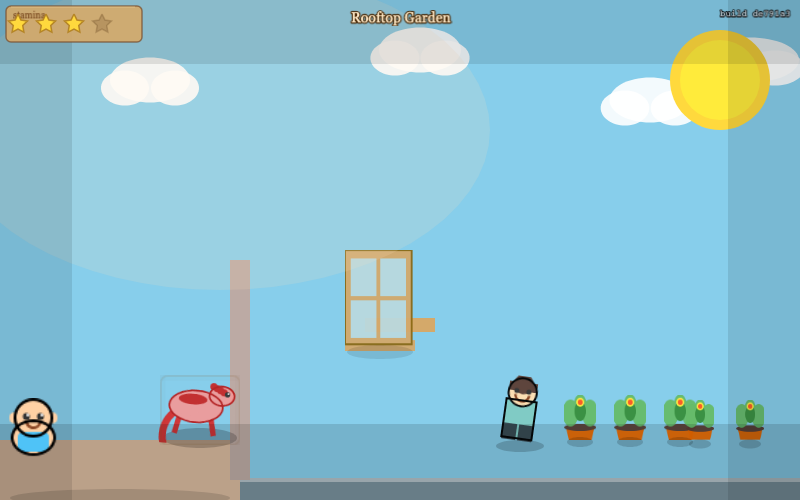
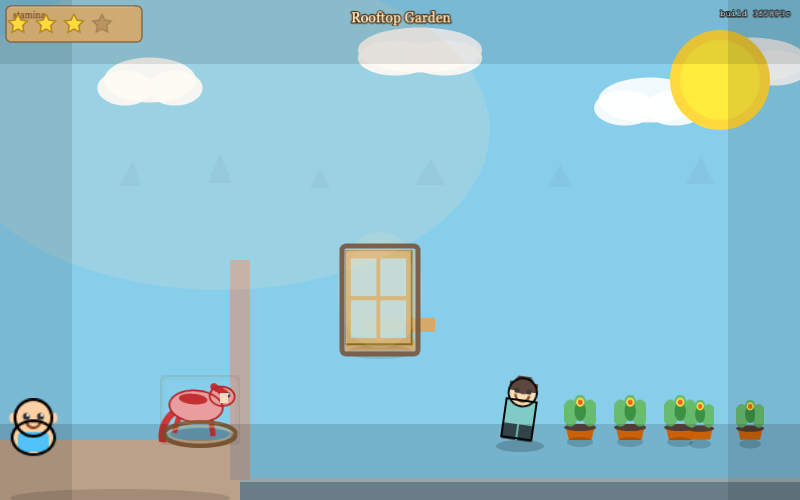
feat: crafted diorama pass for scenes 2-5

diff --git a/src/scenes/RooftopScene.js b/src/scenes/RooftopScene.js
@@ -27,6 +27,15 @@ export class RooftopScene extends Phaser.Scene {
     // Clouds
     this.makeClouds();
 
+    // Far skyline paper cutouts (low contrast)
+    const skylineColor = 0x76a7c9;
+    this.add.polygon(130, 170, [0, 28, 14, 4, 22, 28], skylineColor, 0.2).setDepth(1);
+    this.add.polygon(220, 168, [0, 30, 12, 0, 24, 30], skylineColor, 0.2).setDepth(1);
+    this.add.polygon(320, 172, [0, 26, 10, 6, 20, 26], skylineColor, 0.2).setDepth(1);
+    this.add.polygon(430, 170, [0, 28, 16, 2, 30, 28], skylineColor, 0.2).setDepth(1);
+    this.add.polygon(560, 171, [0, 27, 13, 5, 25, 27], skylineColor, 0.2).setDepth(1);
+    this.add.polygon(700, 169, [0, 29, 15, 1, 28, 29], skylineColor, 0.2).setDepth(1);
+
     // Rooftop floor
     this.add.rectangle(GAME_W / 2, GAME_H - 10, GAME_W, 20, 0x78909c);
     this.add.rectangle(GAME_W / 2, GAME_H - 20, GAME_W, 4, 0xb0bec5);
@@ -85,8 +94,13 @@ export class RooftopScene extends Phaser.Scene {
   }
 
   makeClouds() {
-    [[150, 80], [420, 50], [650, 100], [750, 60]].forEach(([x, y]) => {
-      const w = Phaser.Math.Between(80, 130);
+    const cloudData = [
+      [150, 80, 92],
+      [420, 50, 124],
+      [650, 100, 103],
+      [750, 60, 114],
+    ];
+    cloudData.forEach(([x, y, w]) => {
       this.add.ellipse(x, y, w, 45, 0xffffff, 0.9);
       this.add.ellipse(x - 25, y + 8, w * 0.6, 35, 0xffffff, 0.9);
       this.add.ellipse(x + 25, y + 8, w * 0.6, 35, 0xffffff, 0.9);
@@ -106,6 +120,15 @@ export class RooftopScene extends Phaser.Scene {
     this.windowY = GAME_H - 200;
     addContactShadow(this, this.windowX, this.windowY + 52, 66, 14, 0.1, 2);
     applyDepthHaze(this.add.image(this.windowX, this.windowY, 'window').setDisplaySize(70, 100), 146);
+
+    // Crafted wood frame + paper glow (visual only)
+    const frame = this.add.graphics().setDepth(147);
+    frame.lineStyle(5, 0x7a5a44, 0.95);
+    frame.strokeRoundedRect(this.windowX - 38, this.windowY - 54, 76, 108, 4);
+    frame.lineStyle(2, 0xd7b48f, 0.4);
+    frame.strokeRoundedRect(this.windowX - 34, this.windowY - 50, 68, 100, 3);
+    this.add.ellipse(this.windowX, this.windowY - 10, 86, 116, 0xffe7ad, 0.14).setDepth(145);
+    this.add.ellipse(this.windowX, this.windowY - 10, 74, 102, 0xffe7ad, 0.08).setDepth(145);
   }
 
   setupRockingHorse() {
@@ -130,6 +153,14 @@ export class RooftopScene extends Phaser.Scene {
       noiseDots: 130,
     });
     this.horseOverlay = addCraftedOverlay(this, horseTex, this.horseWX, this.horseY, 80, 70, 10, 0.22);
+
+    // Toy details: rocker rails + paper tag (visual only)
+    const horseDetail = this.add.graphics().setDepth(11);
+    horseDetail.lineStyle(4, 0x8a5a2f, 0.9);
+    horseDetail.strokeEllipse(this.horseWX, this.horseY + 24, 72, 24);
+    horseDetail.lineStyle(2, 0xe9c98d, 0.55);
+    horseDetail.strokeEllipse(this.horseWX, this.horseY + 24, 62, 16);
+    this.add.rectangle(this.horseWX + 24, this.horseY - 12, 8, 10, 0xf3e2c5, 0.95).setDepth(11);
 
     // Rocking tween
     this.horseTween = this.tweens.add({

diff --git a/src/scenes/KitchenScene.js b/src/scenes/KitchenScene.js
@@ -102,13 +102,37 @@ export class KitchenScene extends Phaser.Scene {
       118
     );
 
-    // Spill zone collider (wide but thin)
-    // Second puddle
-    this.puddle2 = applyDepthHaze(
-      this.add.image(820, GAME_H - 37, 'puddle').setDisplaySize(100, 24).setDepth(2),
-      124
-    );
+      // Puddle highlight (juice sheen)
+      const puddleHighlight = this.add.ellipse(this.puddleX - 20, this.puddleY - 6, 40, 12, 0xffd97d, 0.35);
+      puddleHighlight.setDepth(3);
+    
+      // Second puddle
+      this.puddle2 = applyDepthHaze(
+        this.add.image(820, GAME_H - 37, 'puddle').setDisplaySize(100, 24).setDepth(2),
+        124
+      );
+      // Puddle 2 highlight
+      this.add.ellipse(800, GAME_H - 42, 35, 10, 0xffd97d, 0.3).setDepth(3);
 
+      // Wood cabinet detail (cabinet face with handles)
+      addContactShadow(this, 240, GAME_H - 90, 60, 16, 0.12, 2);
+      const cabinetTex = ensureCraftedTexture(this, 'kitchen_cabinet', {
+        w: 56,
+        h: 90,
+        c1: 0xc19a6b,
+        c2: 0x9d7e4f,
+        c3: 0x6b5a3d,
+        outline: 0x4a3f2e,
+        radius: 6,
+        noiseDots: 45,
+      });
+      const cabinetG = this.add.graphics();
+      cabinetG.fillStyle(0xc19a6b, 1);
+      cabinetG.fillRect(212, GAME_H - 160, 56, 90);
+      addCraftedOverlay(this, cabinetTex, 240, GAME_H - 115, 56, 90, 3, 0.18);
+      // Cabinet handles
+      this.add.circle(232, GAME_H - 120, 2, 0x8b6f47).setDepth(4);
+      this.add.circle(248, GAME_H - 120, 2, 0x8b6f47).setDepth(4);
     // "Slippery" label — italic serif, softer than monospace
     this.add.text(this.puddleX, GAME_H - 55, '~ slippery ~', {
       fontFamily: 'Georgia, serif',

diff --git a/src/scenes/StairsScene.js b/src/scenes/StairsScene.js
@@ -112,6 +112,23 @@ export class StairsScene extends Phaser.Scene {
     });
     addCraftedOverlay(this, furTex, this.dogX, this.dogY, 52, 36, 9, 0.2);
 
+      // Dog collar with tag
+      this.add.circle(this.dogX + 8, this.dogY - 4, 18, 0xd9a76a, 0).setStrokeStyle(3, 0xc19a6b).setDepth(10);
+      const tagTex = ensureCraftedTexture(this, 'dog_tag', {
+        w: 10,
+        h: 12,
+        c1: 0xe8d4b8,
+        c2: 0xc4a373,
+        c3: 0xa0845a,
+        outline: 0x664d33,
+        radius: 2,
+        noiseDots: 8,
+      });
+      this.add.rectangle(this.dogX + 18, this.dogY - 8, 10, 12, 0xe8d4b8).setDepth(10);
+      addCraftedOverlay(this, tagTex, this.dogX + 18, this.dogY - 8, 10, 12, 11, 0.15);
+      // Tag hanging string
+      this.add.line(this.dogX + 14, this.dogY - 6, this.dogX + 18, this.dogY - 8, 0x999999, 0.5).setDepth(10);
+
     // Zzz animation above dog
     this.dogZzz = this.add.text(this.dogX + 30, this.dogY - 20, 'zzz', {
       fontFamily: 'monospace',
@@ -119,6 +136,11 @@ export class StairsScene extends Phaser.Scene {
       color: '#aaaaff',
     }).setDepth(5);
 
+      // Carpet runner on stairs (visual only, no physics change)
+      for (let i = 0; i < this.steps.length; i++) {
+        const step = this.steps[i];
+        this.add.rectangle(step.x, step.y - 1, step.w - 12, 18, 0xaa6b5b, 0.65).setDepth(5);
+      }
     this.tweens.add({
       targets: this.dogZzz,
       y: this.dogY - 30,

diff --git a/src/scenes/BedroomScene.js b/src/scenes/BedroomScene.js
@@ -95,10 +95,24 @@ export class BedroomScene extends Phaser.Scene {
     });
     addCraftedOverlay(this, pianoTex, this.pianoX, GAME_H - 90, 140, 80, 7, 0.26);
 
-    // Window
-    addContactShadow(this, 950, GAME_H - 142, 66, 16, 0.1, 2);
-    applyDepthHaze(this.add.image(950, GAME_H - 200, 'window').setDisplaySize(80, 120), 175);
+      // Piano keyboard detail (keys)
+      const keyW = 6;
+      const keyH = 24;
+      for (let k = 0; k < 14; k++) {
+        const keyX = this.pianoX - 38 + k * 5.5;
+        const keyColor = k % 2 === 0 ? 0xffffff : 0x333333;
+        this.add.rectangle(keyX, GAME_H - 65, keyW, keyH, keyColor).setDepth(8);
+      }
+      // Music sheet on stand
+      this.add.rectangle(this.pianoX + 50, GAME_H - 95, 22, 28, 0xf5e6d3).setDepth(5);
+      this.add.line(this.pianoX + 50, GAME_H - 100, this.pianoX + 50, GAME_H - 90, 0x999999, 0.4).setDepth(6);
+      this.add.line(this.pianoX + 50, GAME_H - 98, this.pianoX + 50, GAME_H - 92, 0x999999, 0.4).setDepth(6);
 
+      // Window
+      addContactShadow(this, 950, GAME_H - 142, 66, 16, 0.1, 2);
+      applyDepthHaze(this.add.image(950, GAME_H - 200, 'window').setDisplaySize(80, 120), 175);
+
+      // Felt rug prop (already exists as ellipse, enhance it)
     // Rug
     this.add.ellipse(SCENE_WIDTH / 2, GAME_H - 22, 500, 30, 0xce93d8, 0.7);
   }
